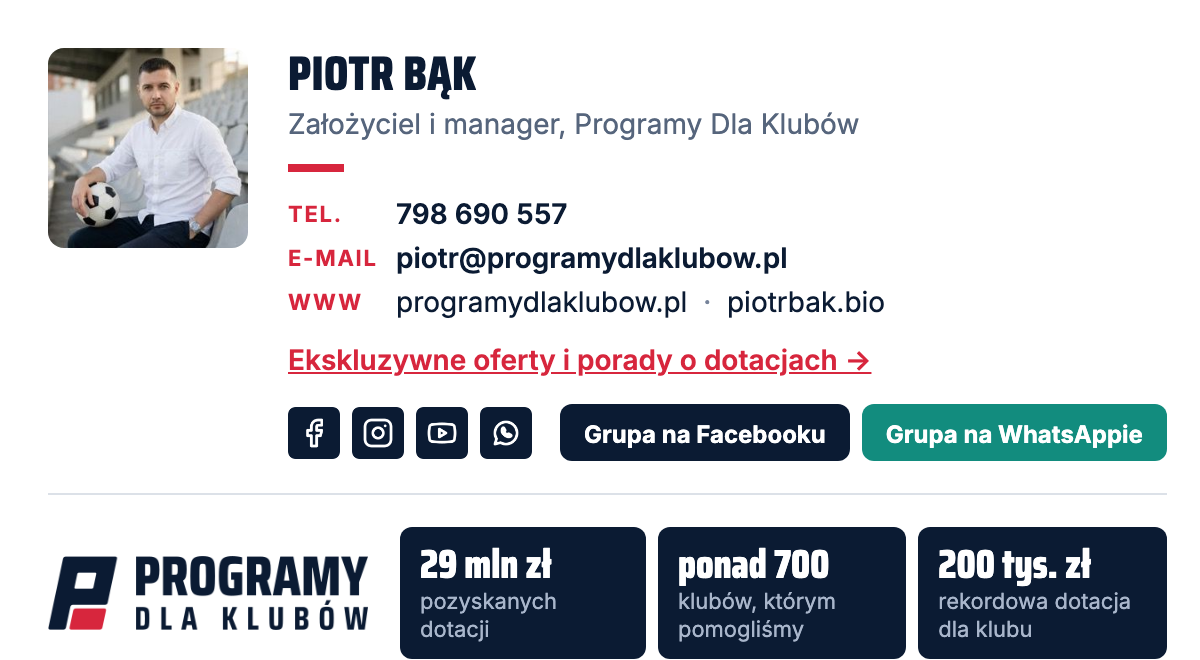
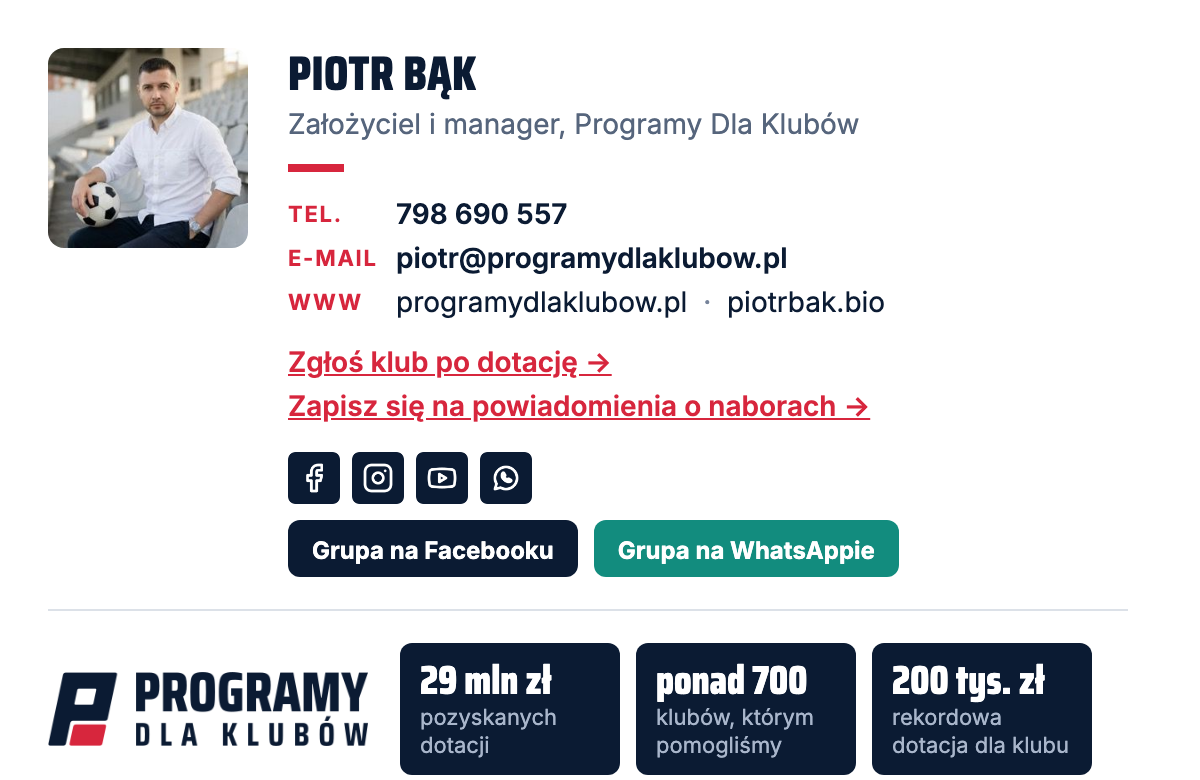
Stopka PDK: odstępy przycisków i kafli odporne na programy pocztowe, linki do zgłoszenia i powiadomień

Changed region(s): [[0.0308, 0.0606, 0.9867, 0.7576], [0.3392, 0.7879, 0.9867, 1.0], [0.0308, 0.8182, 0.3083, 0.9697]]

diff --git a/pdk-2026/stopka-piotr-bak.html b/pdk-2026/stopka-piotr-bak.html
@@ -25,18 +25,22 @@
           <td><a href="https://programydlaklubow.pl/" style="color:#0B1B33;text-decoration:none;">programydlaklubow.pl</a><span style="color:#76839A;">&nbsp;&nbsp;·&nbsp;&nbsp;</span><a href="https://www.piotrbak.bio" style="color:#0B1B33;text-decoration:none;">piotrbak.bio</a></td>
         </tr>
       </table>
-      <div style="font-size:14px;line-height:20px;padding:8px 0 12px;">
-        <a href="https://cutt.ly/drLrRt1D" style="color:#D7263D;text-decoration:underline;font-weight:600;">Ekskluzywne oferty i porady o dotacjach&nbsp;→</a>
+      <div style="font-size:14px;line-height:22px;padding:8px 0 12px;">
+        <a href="https://programydlaklubow.pl/pomoc-w-dotacjach#formularz" style="color:#D7263D;text-decoration:underline;font-weight:600;">Zgłoś klub po dotację&nbsp;→</a><br>
+        <a href="https://programydlaklubow.pl/kalendarz-dotacji#newsletter" style="color:#D7263D;text-decoration:underline;font-weight:600;">Zapisz się na powiadomienia o naborach&nbsp;→</a>
       </div>
       <table cellpadding="0" cellspacing="0" border="0" role="presentation" style="border-collapse:collapse;">
         <tr>
           <td style="padding:0 6px 0 0;"><a href="https://www.facebook.com/programydlaklubow"><img src="https://raw.githubusercontent.com/ahuramazdao/email-signature/main/pdk-2026/pdk-ikona-facebook.png" alt="Facebook" width="26" height="26" style="display:block;width:26px;height:26px;border:0;"></a></td>
           <td style="padding:0 6px 0 0;"><a href="https://www.instagram.com/programydlaklubow"><img src="https://raw.githubusercontent.com/ahuramazdao/email-signature/main/pdk-2026/pdk-ikona-instagram.png" alt="Instagram" width="26" height="26" style="display:block;width:26px;height:26px;border:0;"></a></td>
           <td style="padding:0 6px 0 0;"><a href="https://www.youtube.com/@programydlaklubow"><img src="https://raw.githubusercontent.com/ahuramazdao/email-signature/main/pdk-2026/pdk-ikona-youtube.png" alt="YouTube" width="26" height="26" style="display:block;width:26px;height:26px;border:0;"></a></td>
-          <td style="padding:0 14px 0 0;"><a href="https://wa.me/48730209608"><img src="https://raw.githubusercontent.com/ahuramazdao/email-signature/main/pdk-2026/pdk-ikona-whatsapp.png" alt="WhatsApp" width="26" height="26" style="display:block;width:26px;height:26px;border:0;"></a></td>
-          <td bgcolor="#0B1B33" style="background-color:#0B1B33;border-radius:6px;padding:4px 12px;"><a href="https://www.facebook.com/groups/programydlaklubow" style="font-size:12px;line-height:18px;font-weight:700;color:#FFFFFF;text-decoration:none;white-space:nowrap;">Grupa na Facebooku</a></td>
-          <td width="6" style="width:6px;min-width:6px;font-size:0;line-height:0;">&nbsp;</td>
-          <td bgcolor="#128C7E" style="background-color:#128C7E;border-radius:6px;padding:4px 12px;"><a href="https://chat.whatsapp.com/EJTMDquGhSH9vzvuJgHD6G" style="font-size:12px;line-height:18px;font-weight:700;color:#FFFFFF;text-decoration:none;white-space:nowrap;">Grupa na WhatsAppie</a></td>
+          <td style="padding:0;"><a href="https://wa.me/48730209608"><img src="https://raw.githubusercontent.com/ahuramazdao/email-signature/main/pdk-2026/pdk-ikona-whatsapp.png" alt="WhatsApp" width="26" height="26" style="display:block;width:26px;height:26px;border:0;"></a></td>
+        </tr>
+      </table>
+      <table cellpadding="0" cellspacing="0" border="0" role="presentation" style="border-collapse:collapse;margin:8px 0 0;">
+        <tr>
+          <td style="padding:0 8px 0 0;"><table cellpadding="0" cellspacing="0" border="0" role="presentation" style="border-collapse:separate;"><tr><td bgcolor="#0B1B33" style="background-color:#0B1B33;border-radius:6px;padding:4px 12px;"><a href="https://www.facebook.com/groups/programydlaklubow" style="font-size:12px;line-height:18px;font-weight:700;color:#FFFFFF;text-decoration:none;white-space:nowrap;">Grupa na Facebooku</a></td></tr></table></td>
+          <td style="padding:0;"><table cellpadding="0" cellspacing="0" border="0" role="presentation" style="border-collapse:separate;"><tr><td bgcolor="#128C7E" style="background-color:#128C7E;border-radius:6px;padding:4px 12px;"><a href="https://chat.whatsapp.com/EJTMDquGhSH9vzvuJgHD6G" style="font-size:12px;line-height:18px;font-weight:700;color:#FFFFFF;text-decoration:none;white-space:nowrap;">Grupa na WhatsAppie</a></td></tr></table></td>
         </tr>
       </table>
     </td>
@@ -55,20 +59,18 @@
           <td valign="middle" width="160" style="width:160px;padding:0 16px 0 0;">
             <a href="https://programydlaklubow.pl/"><img src="https://raw.githubusercontent.com/ahuramazdao/email-signature/main/pdk-2026/pdk-logo-poziome-360.png" alt="Programy Dla Klubów" width="160" height="37" style="display:block;width:160px;height:auto;border:0;"></a>
           </td>
-          <td valign="top" width="110" bgcolor="#0B1B33" style="width:110px;background-color:#0B1B33;border-radius:6px;padding:8px 10px;">
+          <td valign="top" style="padding:0;"><table cellpadding="0" cellspacing="0" border="0" role="presentation" width="110" style="border-collapse:separate;width:110px;"><tr><td valign="top" bgcolor="#0B1B33" style="width:110px;background-color:#0B1B33;border-radius:6px;padding:8px 10px;">
             <div style="font-family:'Saira Condensed','Arial Narrow',Arial,sans-serif;font-size:20px;line-height:22px;font-weight:800;color:#FFFFFF;white-space:nowrap;">29 mln zł</div>
             <div style="font-size:11px;line-height:14px;color:#A9B6CB;">pozyskanych dotacji</div>
-          </td>
-          <td width="6" style="width:6px;min-width:6px;font-size:0;line-height:0;">&nbsp;</td>
-          <td valign="top" width="110" bgcolor="#0B1B33" style="width:110px;background-color:#0B1B33;border-radius:6px;padding:8px 10px;">
+          </td></tr></table></td>
+          <td valign="top" style="padding:0 0 0 8px;"><table cellpadding="0" cellspacing="0" border="0" role="presentation" width="110" style="border-collapse:separate;width:110px;"><tr><td valign="top" bgcolor="#0B1B33" style="width:110px;background-color:#0B1B33;border-radius:6px;padding:8px 10px;">
             <div style="font-family:'Saira Condensed','Arial Narrow',Arial,sans-serif;font-size:20px;line-height:22px;font-weight:800;color:#FFFFFF;white-space:nowrap;">ponad 700</div>
             <div style="font-size:11px;line-height:14px;color:#A9B6CB;">klubów, którym pomogliśmy</div>
-          </td>
-          <td width="6" style="width:6px;min-width:6px;font-size:0;line-height:0;">&nbsp;</td>
-          <td valign="top" width="110" bgcolor="#0B1B33" style="width:110px;background-color:#0B1B33;border-radius:6px;padding:8px 10px;">
+          </td></tr></table></td>
+          <td valign="top" style="padding:0 0 0 8px;"><table cellpadding="0" cellspacing="0" border="0" role="presentation" width="110" style="border-collapse:separate;width:110px;"><tr><td valign="top" bgcolor="#0B1B33" style="width:110px;background-color:#0B1B33;border-radius:6px;padding:8px 10px;">
             <div style="font-family:'Saira Condensed','Arial Narrow',Arial,sans-serif;font-size:20px;line-height:22px;font-weight:800;color:#FFFFFF;white-space:nowrap;">200 tys. zł</div>
             <div style="font-size:11px;line-height:14px;color:#A9B6CB;">rekordowa dotacja dla klubu</div>
-          </td>
+          </td></tr></table></td>
         </tr>
       </table>
     </td>

diff --git a/pdk-2026/podglad-lokalny.html b/pdk-2026/podglad-lokalny.html
@@ -26,18 +26,22 @@
           <td><a href="https://programydlaklubow.pl/" style="color:#0B1B33;text-decoration:none;">programydlaklubow.pl</a><span style="color:#76839A;">&nbsp;&nbsp;·&nbsp;&nbsp;</span><a href="https://www.piotrbak.bio" style="color:#0B1B33;text-decoration:none;">piotrbak.bio</a></td>
         </tr>
       </table>
-      <div style="font-size:14px;line-height:20px;padding:8px 0 12px;">
-        <a href="https://cutt.ly/drLrRt1D" style="color:#D7263D;text-decoration:underline;font-weight:600;">Ekskluzywne oferty i porady o dotacjach&nbsp;→</a>
+      <div style="font-size:14px;line-height:22px;padding:8px 0 12px;">
+        <a href="https://programydlaklubow.pl/pomoc-w-dotacjach#formularz" style="color:#D7263D;text-decoration:underline;font-weight:600;">Zgłoś klub po dotację&nbsp;→</a><br>
+        <a href="https://programydlaklubow.pl/kalendarz-dotacji#newsletter" style="color:#D7263D;text-decoration:underline;font-weight:600;">Zapisz się na powiadomienia o naborach&nbsp;→</a>
       </div>
       <table cellpadding="0" cellspacing="0" border="0" role="presentation" style="border-collapse:collapse;">
         <tr>
           <td style="padding:0 6px 0 0;"><a href="https://www.facebook.com/programydlaklubow"><img src="pdk-ikona-facebook.png" alt="Facebook" width="26" height="26" style="display:block;width:26px;height:26px;border:0;"></a></td>
           <td style="padding:0 6px 0 0;"><a href="https://www.instagram.com/programydlaklubow"><img src="pdk-ikona-instagram.png" alt="Instagram" width="26" height="26" style="display:block;width:26px;height:26px;border:0;"></a></td>
           <td style="padding:0 6px 0 0;"><a href="https://www.youtube.com/@programydlaklubow"><img src="pdk-ikona-youtube.png" alt="YouTube" width="26" height="26" style="display:block;width:26px;height:26px;border:0;"></a></td>
-          <td style="padding:0 14px 0 0;"><a href="https://wa.me/48730209608"><img src="pdk-ikona-whatsapp.png" alt="WhatsApp" width="26" height="26" style="display:block;width:26px;height:26px;border:0;"></a></td>
-          <td bgcolor="#0B1B33" style="background-color:#0B1B33;border-radius:6px;padding:4px 12px;"><a href="https://www.facebook.com/groups/programydlaklubow" style="font-size:12px;line-height:18px;font-weight:700;color:#FFFFFF;text-decoration:none;white-space:nowrap;">Grupa na Facebooku</a></td>
-          <td width="6" style="width:6px;min-width:6px;font-size:0;line-height:0;">&nbsp;</td>
-          <td bgcolor="#128C7E" style="background-color:#128C7E;border-radius:6px;padding:4px 12px;"><a href="https://chat.whatsapp.com/EJTMDquGhSH9vzvuJgHD6G" style="font-size:12px;line-height:18px;font-weight:700;color:#FFFFFF;text-decoration:none;white-space:nowrap;">Grupa na WhatsAppie</a></td>
+          <td style="padding:0;"><a href="https://wa.me/48730209608"><img src="pdk-ikona-whatsapp.png" alt="WhatsApp" width="26" height="26" style="display:block;width:26px;height:26px;border:0;"></a></td>
+        </tr>
+      </table>
+      <table cellpadding="0" cellspacing="0" border="0" role="presentation" style="border-collapse:collapse;margin:8px 0 0;">
+        <tr>
+          <td style="padding:0 8px 0 0;"><table cellpadding="0" cellspacing="0" border="0" role="presentation" style="border-collapse:separate;"><tr><td bgcolor="#0B1B33" style="background-color:#0B1B33;border-radius:6px;padding:4px 12px;"><a href="https://www.facebook.com/groups/programydlaklubow" style="font-size:12px;line-height:18px;font-weight:700;color:#FFFFFF;text-decoration:none;white-space:nowrap;">Grupa na Facebooku</a></td></tr></table></td>
+          <td style="padding:0;"><table cellpadding="0" cellspacing="0" border="0" role="presentation" style="border-collapse:separate;"><tr><td bgcolor="#128C7E" style="background-color:#128C7E;border-radius:6px;padding:4px 12px;"><a href="https://chat.whatsapp.com/EJTMDquGhSH9vzvuJgHD6G" style="font-size:12px;line-height:18px;font-weight:700;color:#FFFFFF;text-decoration:none;white-space:nowrap;">Grupa na WhatsAppie</a></td></tr></table></td>
         </tr>
       </table>
     </td>
@@ -56,20 +60,18 @@
           <td valign="middle" width="160" style="width:160px;padding:0 16px 0 0;">
             <a href="https://programydlaklubow.pl/"><img src="pdk-logo-poziome-360.png" alt="Programy Dla Klubów" width="160" height="37" style="display:block;width:160px;height:auto;border:0;"></a>
           </td>
-          <td valign="top" width="110" bgcolor="#0B1B33" style="width:110px;background-color:#0B1B33;border-radius:6px;padding:8px 10px;">
+          <td valign="top" style="padding:0;"><table cellpadding="0" cellspacing="0" border="0" role="presentation" width="110" style="border-collapse:separate;width:110px;"><tr><td valign="top" bgcolor="#0B1B33" style="width:110px;background-color:#0B1B33;border-radius:6px;padding:8px 10px;">
             <div style="font-family:'Saira Condensed','Arial Narrow',Arial,sans-serif;font-size:20px;line-height:22px;font-weight:800;color:#FFFFFF;white-space:nowrap;">29 mln zł</div>
             <div style="font-size:11px;line-height:14px;color:#A9B6CB;">pozyskanych dotacji</div>
-          </td>
-          <td width="6" style="width:6px;min-width:6px;font-size:0;line-height:0;">&nbsp;</td>
-          <td valign="top" width="110" bgcolor="#0B1B33" style="width:110px;background-color:#0B1B33;border-radius:6px;padding:8px 10px;">
+          </td></tr></table></td>
+          <td valign="top" style="padding:0 0 0 8px;"><table cellpadding="0" cellspacing="0" border="0" role="presentation" width="110" style="border-collapse:separate;width:110px;"><tr><td valign="top" bgcolor="#0B1B33" style="width:110px;background-color:#0B1B33;border-radius:6px;padding:8px 10px;">
             <div style="font-family:'Saira Condensed','Arial Narrow',Arial,sans-serif;font-size:20px;line-height:22px;font-weight:800;color:#FFFFFF;white-space:nowrap;">ponad 700</div>
             <div style="font-size:11px;line-height:14px;color:#A9B6CB;">klubów, którym pomogliśmy</div>
-          </td>
-          <td width="6" style="width:6px;min-width:6px;font-size:0;line-height:0;">&nbsp;</td>
-          <td valign="top" width="110" bgcolor="#0B1B33" style="width:110px;background-color:#0B1B33;border-radius:6px;padding:8px 10px;">
+          </td></tr></table></td>
+          <td valign="top" style="padding:0 0 0 8px;"><table cellpadding="0" cellspacing="0" border="0" role="presentation" width="110" style="border-collapse:separate;width:110px;"><tr><td valign="top" bgcolor="#0B1B33" style="width:110px;background-color:#0B1B33;border-radius:6px;padding:8px 10px;">
             <div style="font-family:'Saira Condensed','Arial Narrow',Arial,sans-serif;font-size:20px;line-height:22px;font-weight:800;color:#FFFFFF;white-space:nowrap;">200 tys. zł</div>
             <div style="font-size:11px;line-height:14px;color:#A9B6CB;">rekordowa dotacja dla klubu</div>
-          </td>
+          </td></tr></table></td>
         </tr>
       </table>
     </td>
